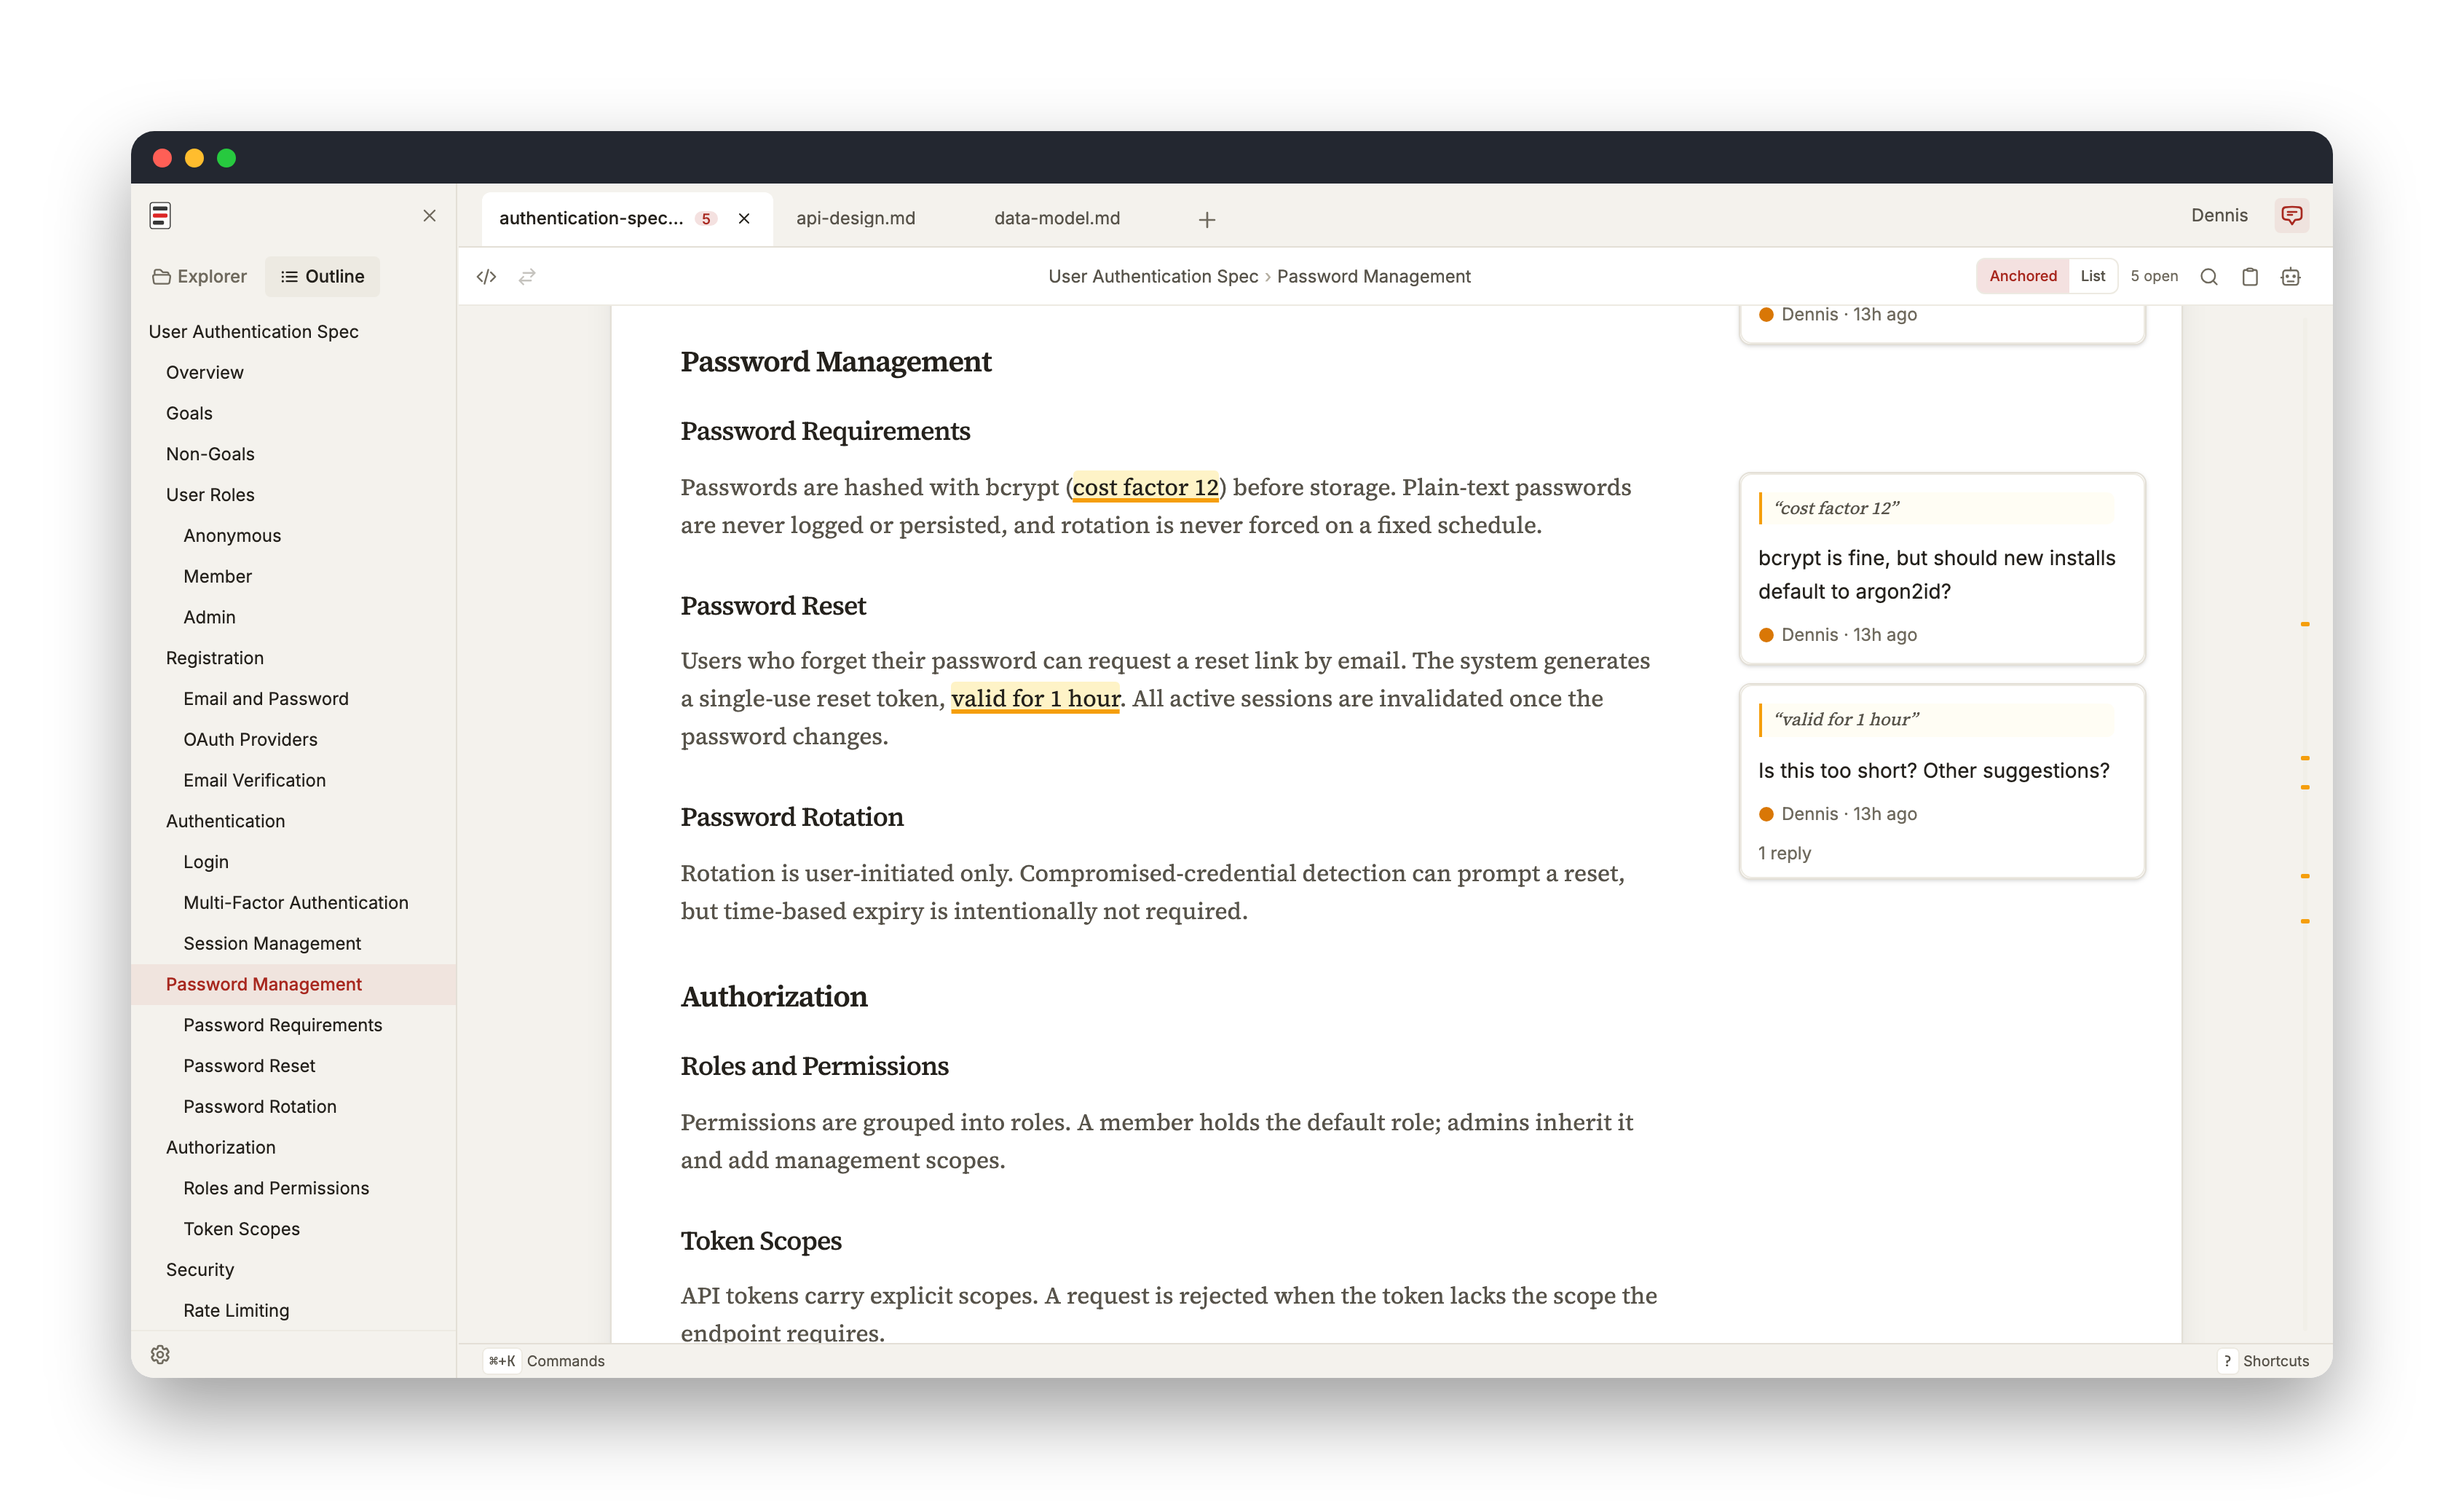
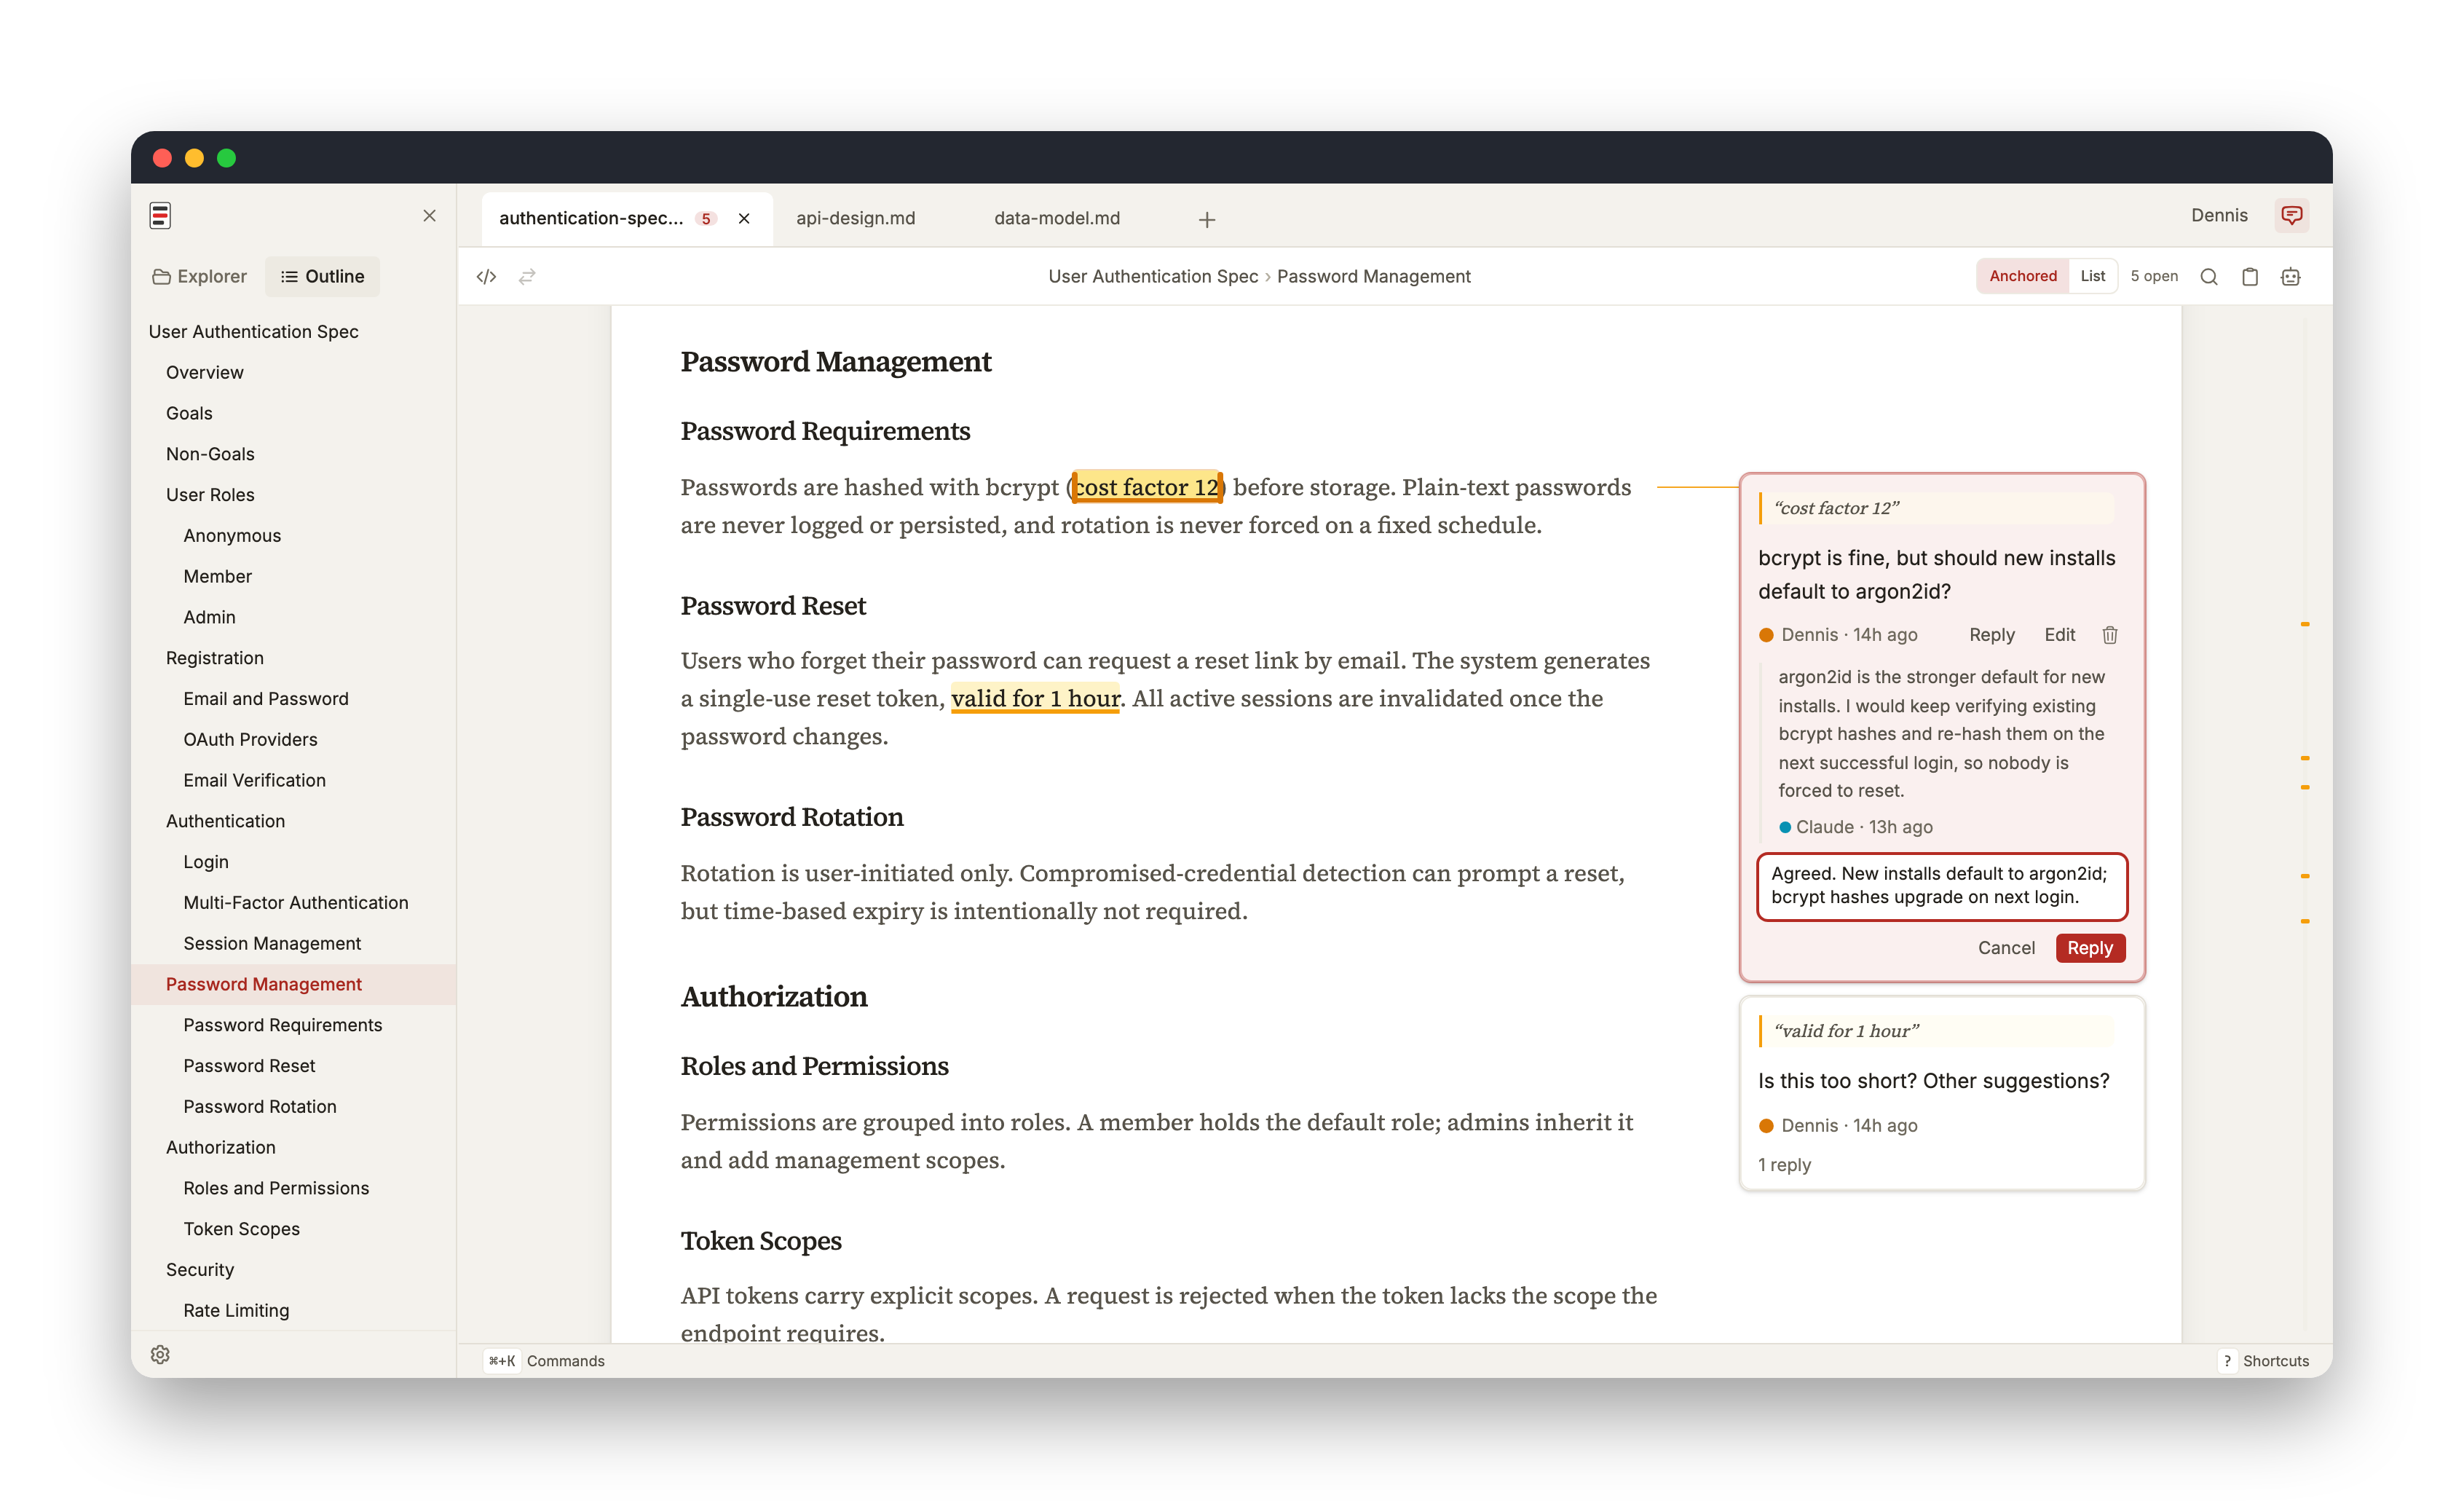
feat(demo): show agent replies and an in-progress reply in the hero shot
Both visible hero comments now carry a Claude reply. The shot focuses the replied-to card (cost factor 12) and opens its composer with an unsent draft, so the highlighted card shows the full comment, agent reply, and in-progress reply, while the other card (valid for 1 hour) shows its reply collapsed as a 1 reply count. Adds a Claude reply to the cost-factor fixture and re-syncs public/screenshot.png; updates README section 7.

Claude-Session: https://claude.ai/code/session_01Xv1LWDnJykeTAgfb3pqr3f

Changed region(s): [[0.7137, 0.4324, 0.8688, 0.8031], [0.7137, 0.1853, 0.7757, 0.2162], [0.4344, 0.3089, 0.4965, 0.3398]]

diff --git a/demo/demo.spec.ts b/demo/demo.spec.ts
@@ -1046,6 +1046,25 @@ test.describe('Product shots — hero', () => {
     // Gate on a card actually rendering (the bcrypt comment's reply text).
     await expect(page.getByText('argon2id', { exact: false })).toBeVisible({ timeout: 10_000 });
 
+    // Put the two visible comments into showcase states. Both carry a Claude
+    // reply. Focus (activate) the bcrypt comment ("cost factor 12") so its reply
+    // thread expands, then open its reply composer with an unsent draft, so the
+    // highlighted card is the one being replied to and shows the full
+    // agent-then-user exchange. The reset-token comment ("valid for 1 hour")
+    // stays inactive, so its Claude reply shows as a collapsed "1 reply" count.
+    const CARD = '[data-comment-card-id]';
+    const bcryptCard = page.locator(CARD, { hasText: 'cost factor 12' }).first();
+    await bcryptCard.click();
+    await page.waitForTimeout(200);
+    await bcryptCard.getByRole('button', { name: 'Reply' }).first().click();
+    await page
+      .getByPlaceholder('Write a reply...')
+      .fill('Agreed. New installs default to argon2id; bcrypt hashes upgrade on next login.');
+    // Confirm the expanded Claude reply and the unsent draft are both live.
+    await expect(page.getByText('re-hash them on the next', { exact: false })).toBeVisible();
+    await expect(page.getByPlaceholder('Write a reply...')).toHaveValue(/argon2id/);
+    await page.waitForTimeout(200);
+
     // Scroll Password Management to the top of the doc scroller so its two
     // comment cards (cost factor 12, valid for 1 hour) are both on screen.
     // Done instantly and re-asserted after a settle, because the tab switch +

diff --git a/demo/README.md b/demo/README.md
@@ -158,7 +158,11 @@ Current stills:
   The app in a macOS window frame (titlebar, rounded corners, soft shadow) on a
   transparent background at 2x, so it floats on GitHub's light or dark theme.
   Light theme, three tabs, Outline panel, Anchored comments, scrolled to
-  Password Management so both comment cards show. Seeds a restored 3-tab session
+  Password Management so both comment cards show. Both carry an agent (Claude)
+  reply; the focused card also has an open reply composer holding an unsent
+  draft (so it shows the full comment, agent reply, and in-progress reply),
+  while the other card's reply stays collapsed as a "1 reply" count.
+  Seeds a restored 3-tab session
   via `localStorage` from the committed `fixtures/hero/*.md` (authentication-spec
   carries the five comments); the frame is composited in-browser around the
   capture, so no image tooling is needed. To refresh the README image,

diff --git a/demo/fixtures/hero/authentication-spec.md b/demo/fixtures/hero/authentication-spec.md
@@ -69,7 +69,7 @@ SameSite=Strict cookie, valid for 30 days with sliding renewal.
 
 ### Password Requirements
 
-Passwords are hashed with bcrypt (<!-- @comment{"id":"c-bcrypt","anchor":"cost factor 12","text":"bcrypt is fine, but should new installs default to argon2id?","author":"Dennis","timestamp":"2026-07-12T14:25:00.000Z"} -->cost factor 12) before storage. Plain-text
+Passwords are hashed with bcrypt (<!-- @comment{"id":"c-bcrypt","anchor":"cost factor 12","text":"bcrypt is fine, but should new installs default to argon2id?","author":"Dennis","timestamp":"2026-07-12T14:25:00.000Z","replies":[{"id":"r-bcrypt-1","author":"Claude","timestamp":"2026-07-12T14:41:00.000Z","text":"argon2id is the stronger default for new installs. I would keep verifying existing bcrypt hashes and re-hash them on the next successful login, so nobody is forced to reset."}]} -->cost factor 12) before storage. Plain-text
 passwords are never logged or persisted, and rotation is never forced on a
 fixed schedule.
 